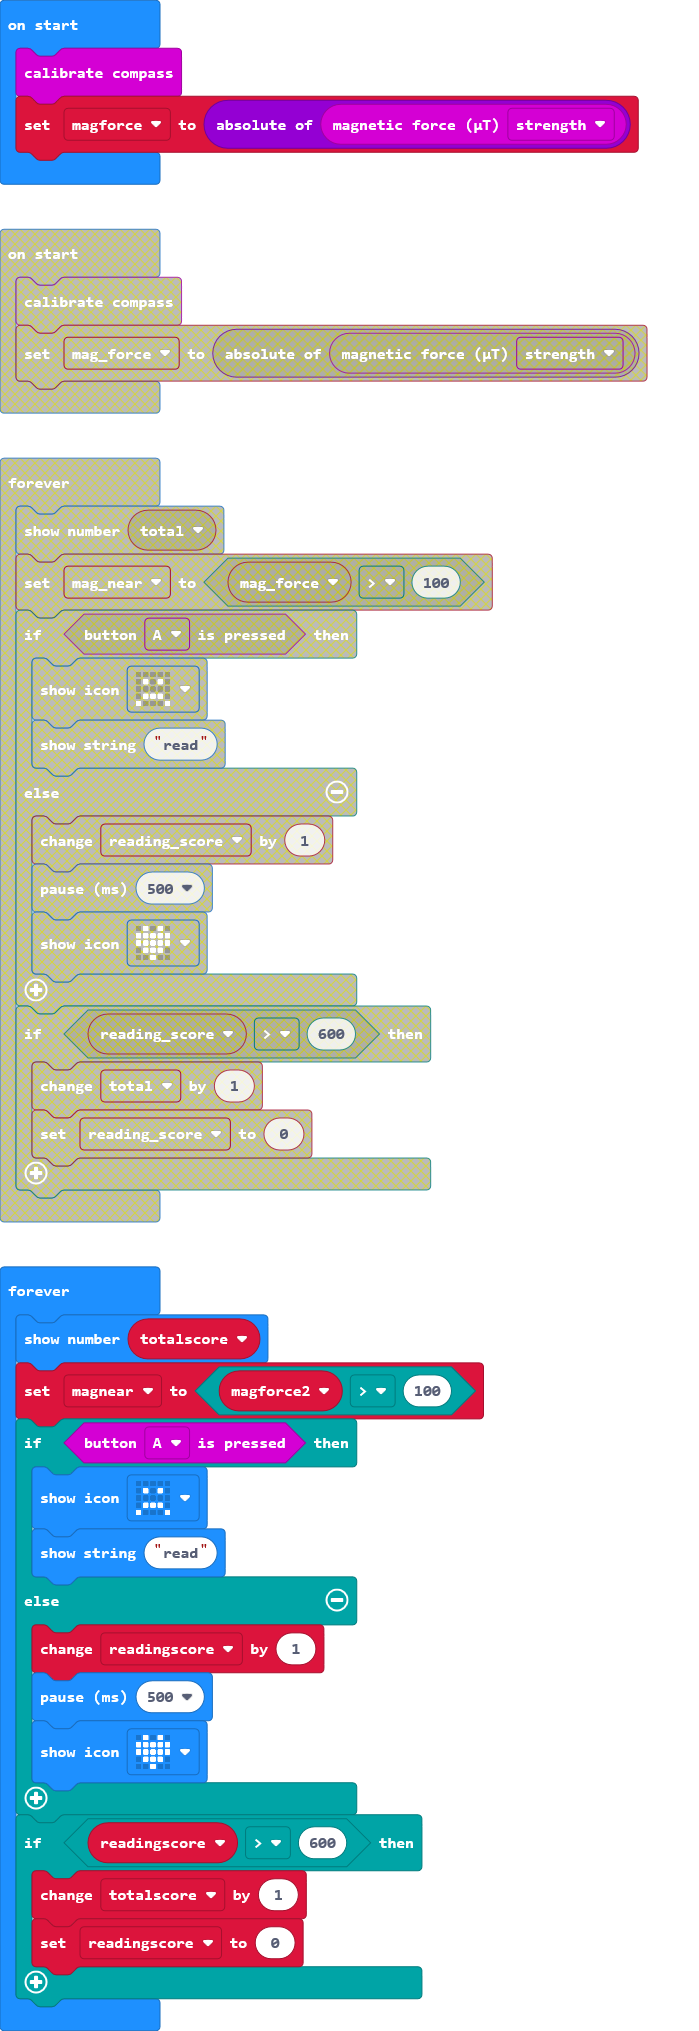
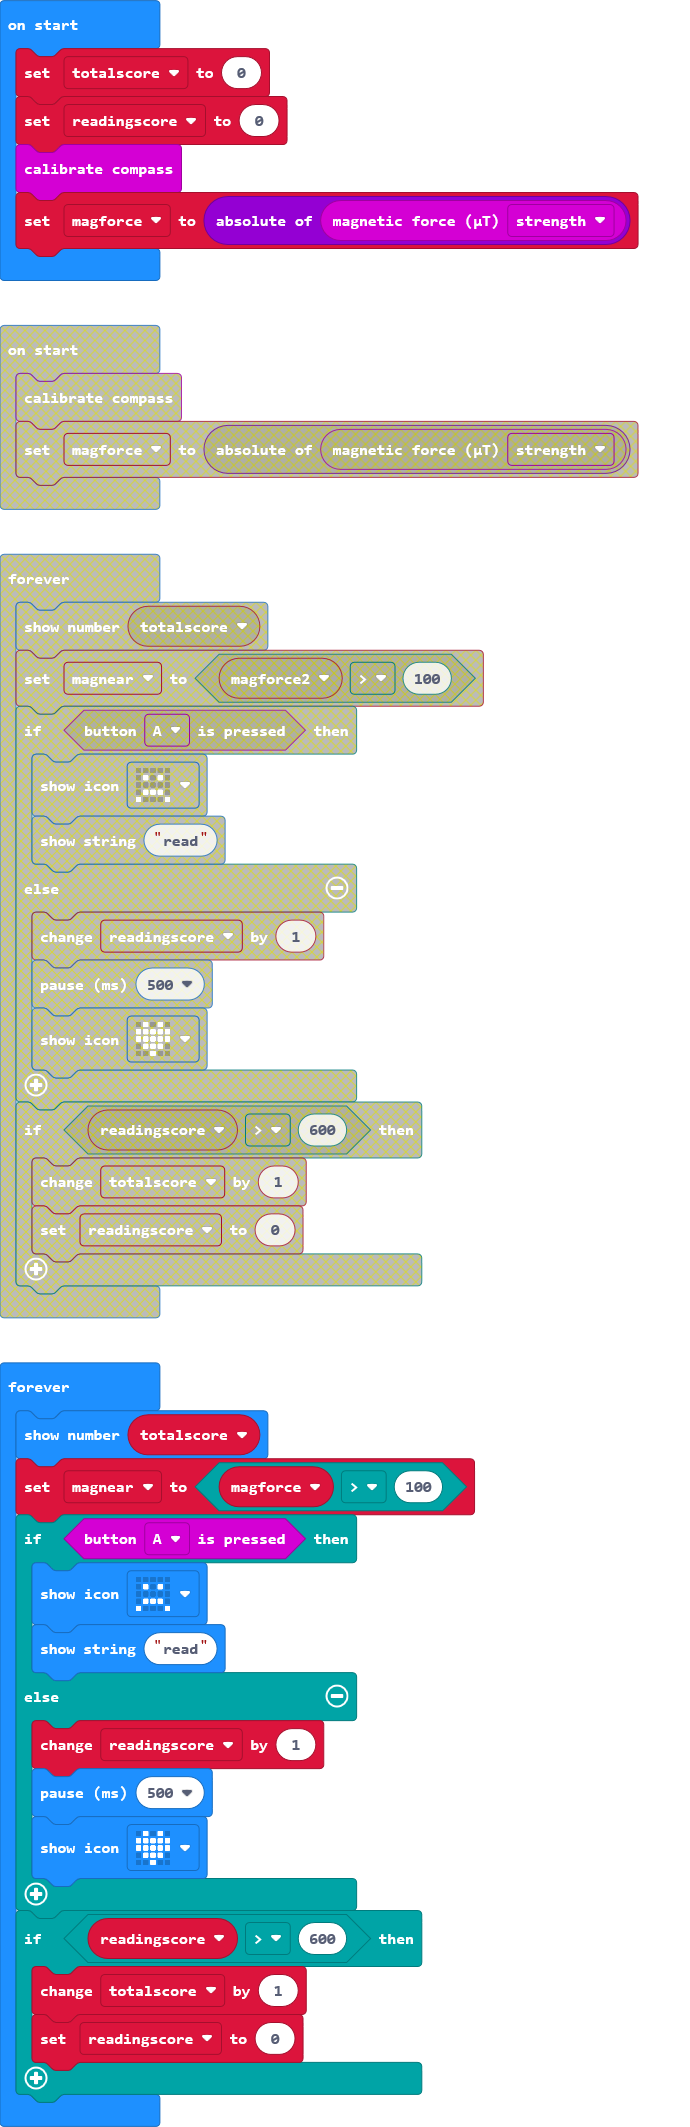
Update pxt.json, main.blocks, main.ts

diff --git a/main.ts b/main.ts
@@ -1,12 +1,11 @@
-let readingscore = 0
 let magnear = false
 let totalscore = 0
+let readingscore = 0
 input.calibrateCompass()
 let magforce = Math.abs(input.magneticForce(Dimension.Strength))
 basic.forever(function () {
-    let magforce2 = 0
     basic.showNumber(totalscore)
-    magnear = magforce2 > 100
+    magnear = magforce > 100
     if (input.buttonIsPressed(Button.A)) {
         basic.showIcon(IconNames.Sad)
         basic.showString("read")
